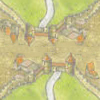
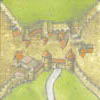
ADD: Added two new tiles, the MonasteryJunction tile and the CastleTubeEntry tile.

diff --git a/src/main/java/carcassonne/model/tile/TileType.java b/src/main/java/carcassonne/model/tile/TileType.java
@@ -28,7 +28,7 @@ public enum TileType {
     CastleWallCurveRight(3, CASTLE, ROAD, ROAD, FIELDS, FIELDS, FIELDS, FIELDS, FIELDS, ROAD),
     CastleWallJunction(3, CASTLE, ROAD, ROAD, ROAD, FIELDS, FIELDS, FIELDS, FIELDS, OTHER),
     CastleWallRoad(4, CASTLE, ROAD, FIELDS, ROAD, FIELDS, FIELDS, FIELDS, FIELDS, ROAD),
-    Monastery(4, FIELDS, FIELDS, FIELDS, FIELDS, FIELDS, FIELDS, FIELDS, FIELDS, MONASTERY),
+    Monastery(3, FIELDS, FIELDS, FIELDS, FIELDS, FIELDS, FIELDS, FIELDS, FIELDS, MONASTERY),
     MonasteryRoad(2, FIELDS, FIELDS, ROAD, FIELDS, FIELDS, FIELDS, FIELDS, FIELDS, MONASTERY),
     Road(7, ROAD, FIELDS, ROAD, FIELDS, FIELDS, FIELDS, FIELDS, FIELDS, ROAD),
     RoadCurve(8, FIELDS, FIELDS, ROAD, ROAD, FIELDS, FIELDS, FIELDS, FIELDS, ROAD),
@@ -36,8 +36,11 @@ public enum TileType {
     RoadJunctionSmall(3, FIELDS, ROAD, ROAD, ROAD, FIELDS, FIELDS, FIELDS, FIELDS, OTHER),
     RoadCrossLarge(1, ROAD, ROAD, ROAD, ROAD, FIELDS, FIELDS, FIELDS, FIELDS, ROAD),
     RoadCrossSmall(2, FIELDS, ROAD, ROAD, ROAD, FIELDS, FIELDS, FIELDS, FIELDS, ROAD),
-    CastleTubeEntry(1, ROAD, CASTLE, ROAD, CASTLE, FIELDS, FIELDS, FIELDS, FIELDS, CASTLE),
-    MonasteryCastle(1, CASTLE, CASTLE, CASTLE, CASTLE, CASTLE, CASTLE, CASTLE, CASTLE, MONASTERY);
+    CastleTubeEntries(1, ROAD, CASTLE, ROAD, CASTLE, FIELDS, FIELDS, FIELDS, FIELDS, CASTLE),
+    CastleTubeEntry(1, FIELDS, CASTLE, ROAD, CASTLE, FIELDS, FIELDS, FIELDS, FIELDS, CASTLE),
+    MonasteryCastle(1, CASTLE, CASTLE, CASTLE, CASTLE, CASTLE, CASTLE, CASTLE, CASTLE, MONASTERY),
+    MonasteryJunction(1, ROAD, ROAD, ROAD, ROAD, FIELDS, FIELDS, FIELDS, FIELDS, MONASTERY);
+    
 
     private final TerrainType[] terrain;
     private final int amount;
